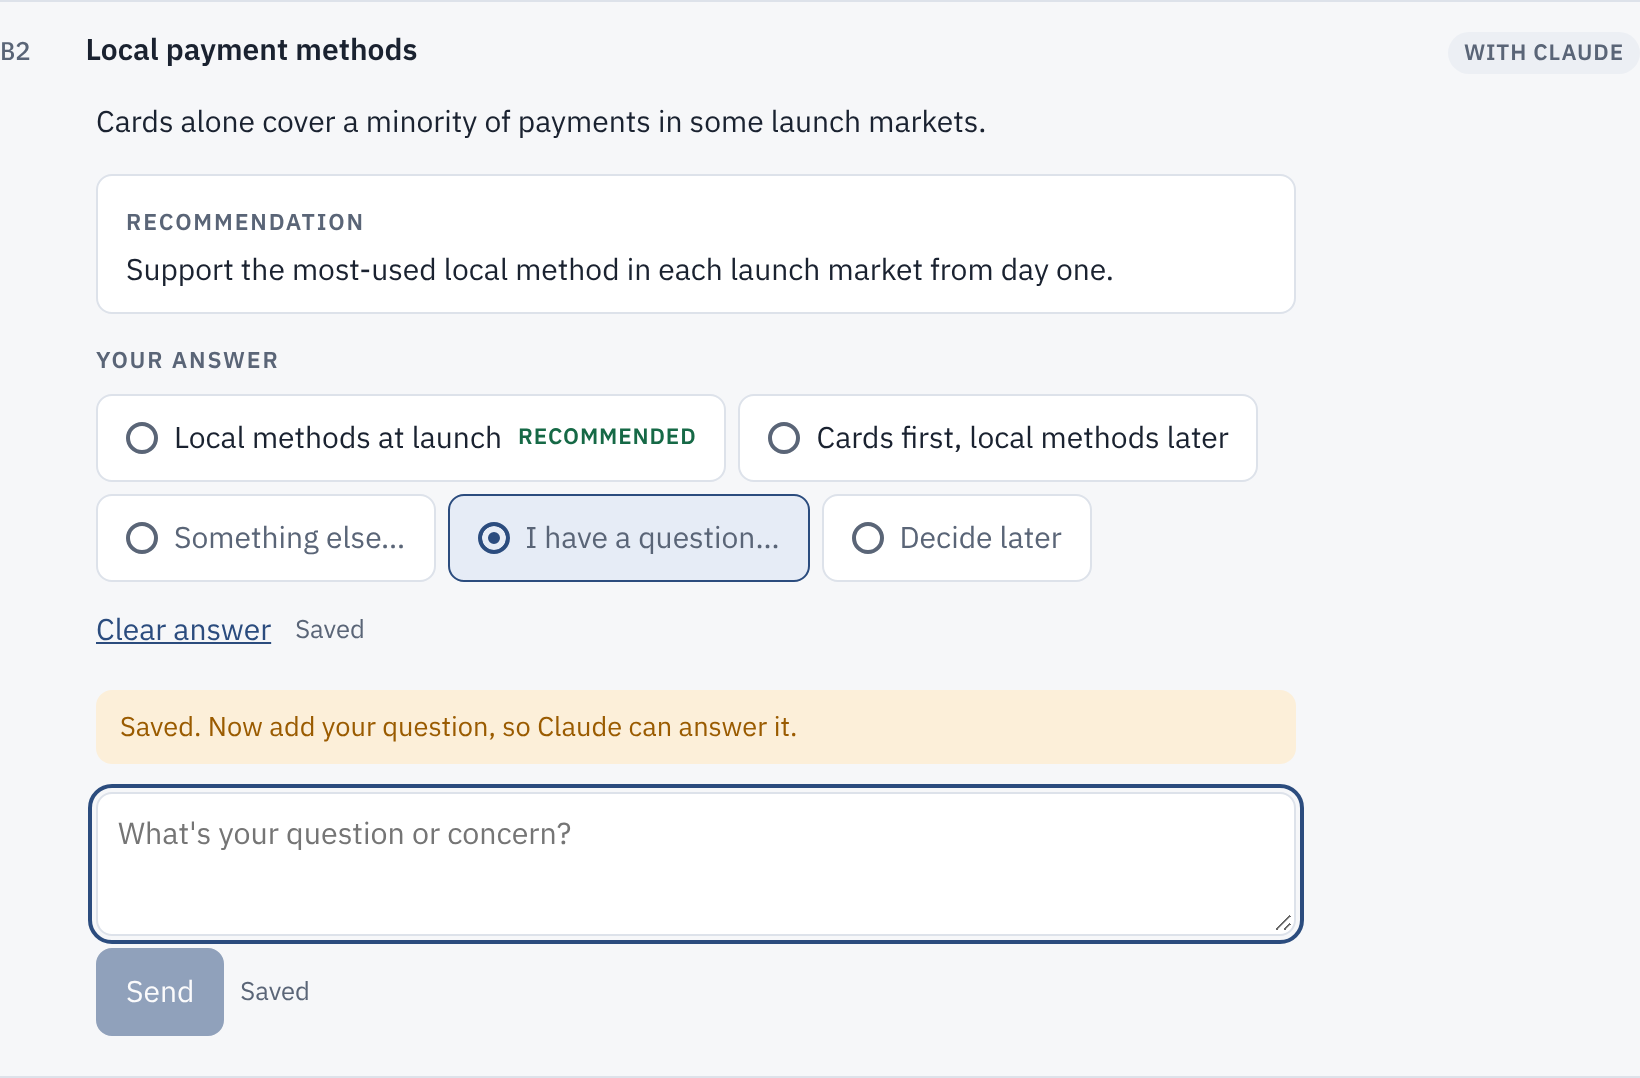
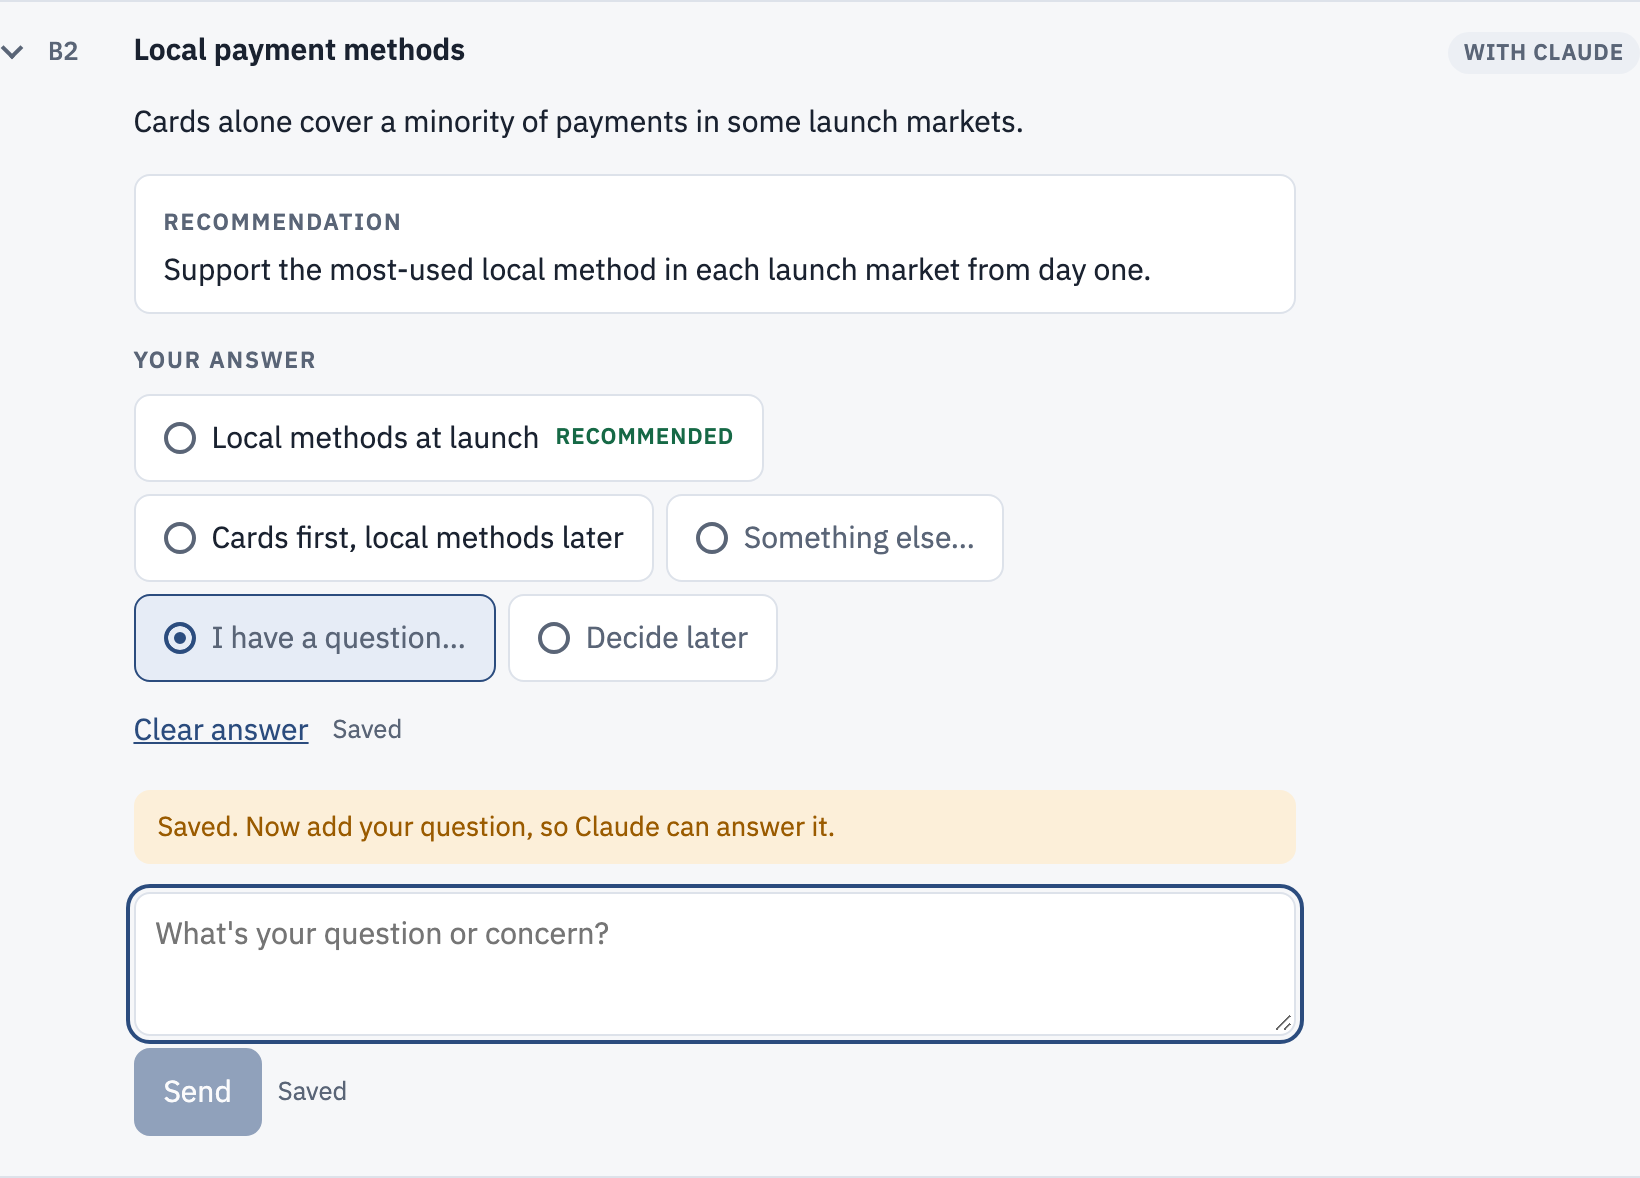
Show which review-board rows can be expanded
Question rows opened on click but nothing showed that they could. Each
row now has a chevron, and the title and chevron change colour on hover.

The chevron is drawn in CSS and shared with the section headers, whose
small glyph was too faint to work as a cue.

The phone rule for row columns came before the base rule and was
overridden, wasting 12px per row. It now comes after. The open body also
lines up exactly with the title.

Screenshots retaken with docs/review-board/sample/shoot.js.

diff --git a/skills/review-board/assets/board-template.html b/skills/review-board/assets/board-template.html
@@ -100,7 +100,7 @@ details.how .how-body { padding: 0 14px 12px; max-width: 70ch; color: var(--mute
 .toc a:hover { background: var(--accent-soft); }
 .toc .tc { font-family: var(--font-mono); font-size: 0.75rem; color: var(--turn); }
 @media (max-width: 820px) { .main { grid-template-columns: minmax(0, 1fr); } .toc { display: none; } .section-select { display: block; } }
-@media (max-width: 600px) { .tab { padding: 6px 8px; gap: 5px; font-size: 0.85rem; } .row { grid-template-columns: auto minmax(0, 1fr); } .row .chips { grid-column: 2; justify-content: flex-start; } .row .rsum { grid-column: 2; } }
+@media (max-width: 600px) { .tab { padding: 6px 8px; gap: 5px; font-size: 0.85rem; } }
 .empty { color: var(--muted); padding: 24px 0; }
 
 section.group { margin-bottom: 20px; scroll-margin-top: calc(var(--bar-h) + 16px); }
@@ -109,16 +109,17 @@ section.group { margin-bottom: 20px; scroll-margin-top: calc(var(--bar-h) + 16px
 .group-head .gt { font-family: var(--font-display); font-weight: 600; font-size: 1.2rem; }
 .group-head .gk { font-family: var(--font-mono); color: var(--accent); }
 .group-head .gsum { margin-left: auto; font-size: 0.82rem; color: var(--muted); white-space: nowrap; }
-.group-head .chev { transition: transform .2s; color: var(--muted); }
-.group-head[aria-expanded="false"] .chev { transform: rotate(-90deg); }
+/* Points down when open, right when closed. Drawn in CSS so it looks the same whatever fonts load. */
+.chev { flex: none; display: inline-block; width: 8px; height: 8px; margin-inline: 2px; border: solid var(--muted); border-width: 0 2px 2px 0; transform: translateY(-2px) rotate(45deg); transition: transform .2s; }
+[aria-expanded="false"] > .chev { transform: translateY(-1px) rotate(-45deg); }
 .group-blurb { margin: 6px 0 0; color: var(--muted); font-size: 0.88rem; }
 
 /* Item */
 .item { border-bottom: 1px solid var(--line); scroll-margin-top: calc(var(--bar-h) + 16px); }
-.row { width: 100%; display: grid; grid-template-columns: auto minmax(0, 1fr) auto; gap: 4px 12px; align-items: baseline; padding: 12px 0; background: none; border: 0; text-align: left; cursor: pointer; }
+.row { width: 100%; display: grid; grid-template-columns: 12px auto minmax(0, 1fr) auto; gap: 4px 12px; align-items: baseline; padding: 12px 0; background: none; border: 0; text-align: left; cursor: pointer; }
 .row .iid { font-family: var(--font-mono); font-size: 0.8rem; color: var(--muted); min-width: 2.4em; }
 .row .rtitle { font-weight: 600; }
-.row .rsum { grid-column: 2 / 4; color: var(--muted); font-size: 0.9rem; display: -webkit-box; -webkit-line-clamp: 2; -webkit-box-orient: vertical; overflow: hidden; }
+.row .rsum { grid-column: 3 / 5; color: var(--muted); font-size: 0.9rem; display: -webkit-box; -webkit-line-clamp: 2; -webkit-box-orient: vertical; overflow: hidden; }
 .row .rsum.decision { color: var(--fg); }
 .row .rsum.ask { color: var(--turn); }
 .chips { display: flex; gap: 4px; flex-wrap: wrap; justify-content: flex-end; }
@@ -126,8 +127,10 @@ section.group { margin-bottom: 20px; scroll-margin-top: calc(var(--bar-h) + 16px
 .chip.your_turn { background: var(--turn-soft); color: var(--turn); } .chip.with_claude { background: var(--with-soft); color: var(--with); }
 .chip.decided { background: var(--done-soft); color: var(--done); } .chip.parked { background: var(--park-soft); color: var(--park); }
 .chip.blocker { background: var(--danger-soft); color: var(--danger); } .chip.mark { background: var(--accent-soft); color: var(--accent); }
+@media (hover: hover) { .row:hover .rtitle { color: var(--accent); } .row:hover .chev { border-color: var(--accent); } }
+@media (max-width: 600px) { .row { grid-template-columns: 12px auto minmax(0, 1fr); } .row .chips { grid-column: 3; justify-content: flex-start; } .row .rsum { grid-column: 3; } }
 .body { display: grid; gap: 14px; padding: 0 0 20px; max-width: 72ch; }
-@media (min-width: 821px) { .body { padding-left: calc(2.4em + 12px); } }
+@media (min-width: 821px) { .body { padding-left: calc(12px + 12px + 1.92rem + 12px); } }
 .decision-box { border: 1px solid var(--done); background: var(--done-soft); border-radius: 8px; padding: 10px 14px; display: grid; gap: 4px; }
 .decision-box .label { color: var(--done); }
 .decision-box .linkbtn { justify-self: start; }
@@ -162,7 +165,7 @@ section.group { margin-bottom: 20px; scroll-margin-top: calc(var(--bar-h) + 16px
 .composer textarea { font: inherit; font-size: 0.95rem; width: 100%; min-height: 72px; resize: vertical; padding: 8px 10px; border-radius: 8px; border: 1px solid var(--line); background: var(--surface); color: var(--fg); field-sizing: content; max-height: 50vh; }
 .composer .crow { display: flex; gap: 8px; align-items: center; flex-wrap: wrap; }
 .meta { font-size: 0.8rem; color: var(--muted); display: grid; gap: 2px; }
-@media (prefers-reduced-motion: reduce) { .meter span, .group-head .chev { transition: none; } }
+@media (prefers-reduced-motion: reduce) { .meter span, .chev { transition: none; } }
 </style>
 
 <header class="wrap top">
@@ -498,7 +501,7 @@ function buildCard(it) {
   else sum = it.rec;
   // The row's accessible name is the title only; the summary is its description.
   const row = el("button", { type: "button", class: "row", "aria-expanded": String(open), "aria-controls": "b-" + id, "aria-labelledby": "t-" + id, "aria-describedby": open ? null : "s-" + id },
-    el("span", { class: "iid", "aria-hidden": "true", text: id }), el("span", { class: "rtitle", id: "t-" + id, text: it.title }), chips,
+    el("span", { class: "chev", "aria-hidden": "true" }), el("span", { class: "iid", "aria-hidden": "true", text: id }), el("span", { class: "rtitle", id: "t-" + id, text: it.title }), chips,
     open ? null : el("span", { class: sumClass, id: "s-" + id, text: sum }));
   row.addEventListener("click", () => { open ? expanded.delete(id) : expanded.add(id); sticky.add(id); rebuild(id, "#item-" + CSS.escape(id) + " .row"); });
   art.append(row);
@@ -703,7 +706,7 @@ sel.append(el("option", { value: "", text: "Sections" }));
 for (const g of GROUPS) {
   const items = el("div", { class: "group-items" });
   const head = el("button", { type: "button", class: "group-head", "aria-expanded": "true", "aria-controls": "gi-" + g.key },
-    el("span", { class: "chev", "aria-hidden": "true", text: "▾" }), el("span", { class: "gk", text: g.key }), el("span", { class: "gt", text: g.title }), el("span", { class: "gsum" }));
+    el("span", { class: "chev", "aria-hidden": "true" }), el("span", { class: "gk", text: g.key }), el("span", { class: "gt", text: g.title }), el("span", { class: "gsum" }));
   items.id = "gi-" + g.key;
   head.addEventListener("click", () => { setSectionOpen(g.key, !isSectionOpen(g.key)); applyFilter(); });
   const sec = el("section", { class: "group", id: "group-" + g.key, "aria-labelledby": "gh-" + g.key }, el("h2", { class: "gh", id: "gh-" + g.key }, head), g.blurb ? el("p", { class: "group-blurb", text: g.blurb }) : null, items);

diff --git a/tests/review-board/test_page.js b/tests/review-board/test_page.js
@@ -129,6 +129,18 @@ test('row accessible name is the title; the summary is its description', async (
   await close(p);
 });
 
+test('every row shows a chevron that turns when the row opens', async () => {
+  const p = await open();
+  const chev = () => p.$eval('#item-X1 .row .chev', n => { const r = n.getBoundingClientRect(); return { w: r.width, turn: getComputedStyle(n).transform }; });
+  assert.strictEqual(await p.$$eval('.row', ns => ns.every(n => n.querySelector('.chev'))), true);
+  const closed = await chev();
+  assert.ok(closed.w > 0, 'visible');
+  await p.click('#item-X1 .row');
+  await p.waitForTimeout(300);
+  assert.notStrictEqual((await chev()).turn, closed.turn);
+  await close(p);
+});
+
 // ---- saving: failures, retries, sending ----
 test('a transient failure is retried once and succeeds', async () => {
   const p = await open({ failSet: 1 });
